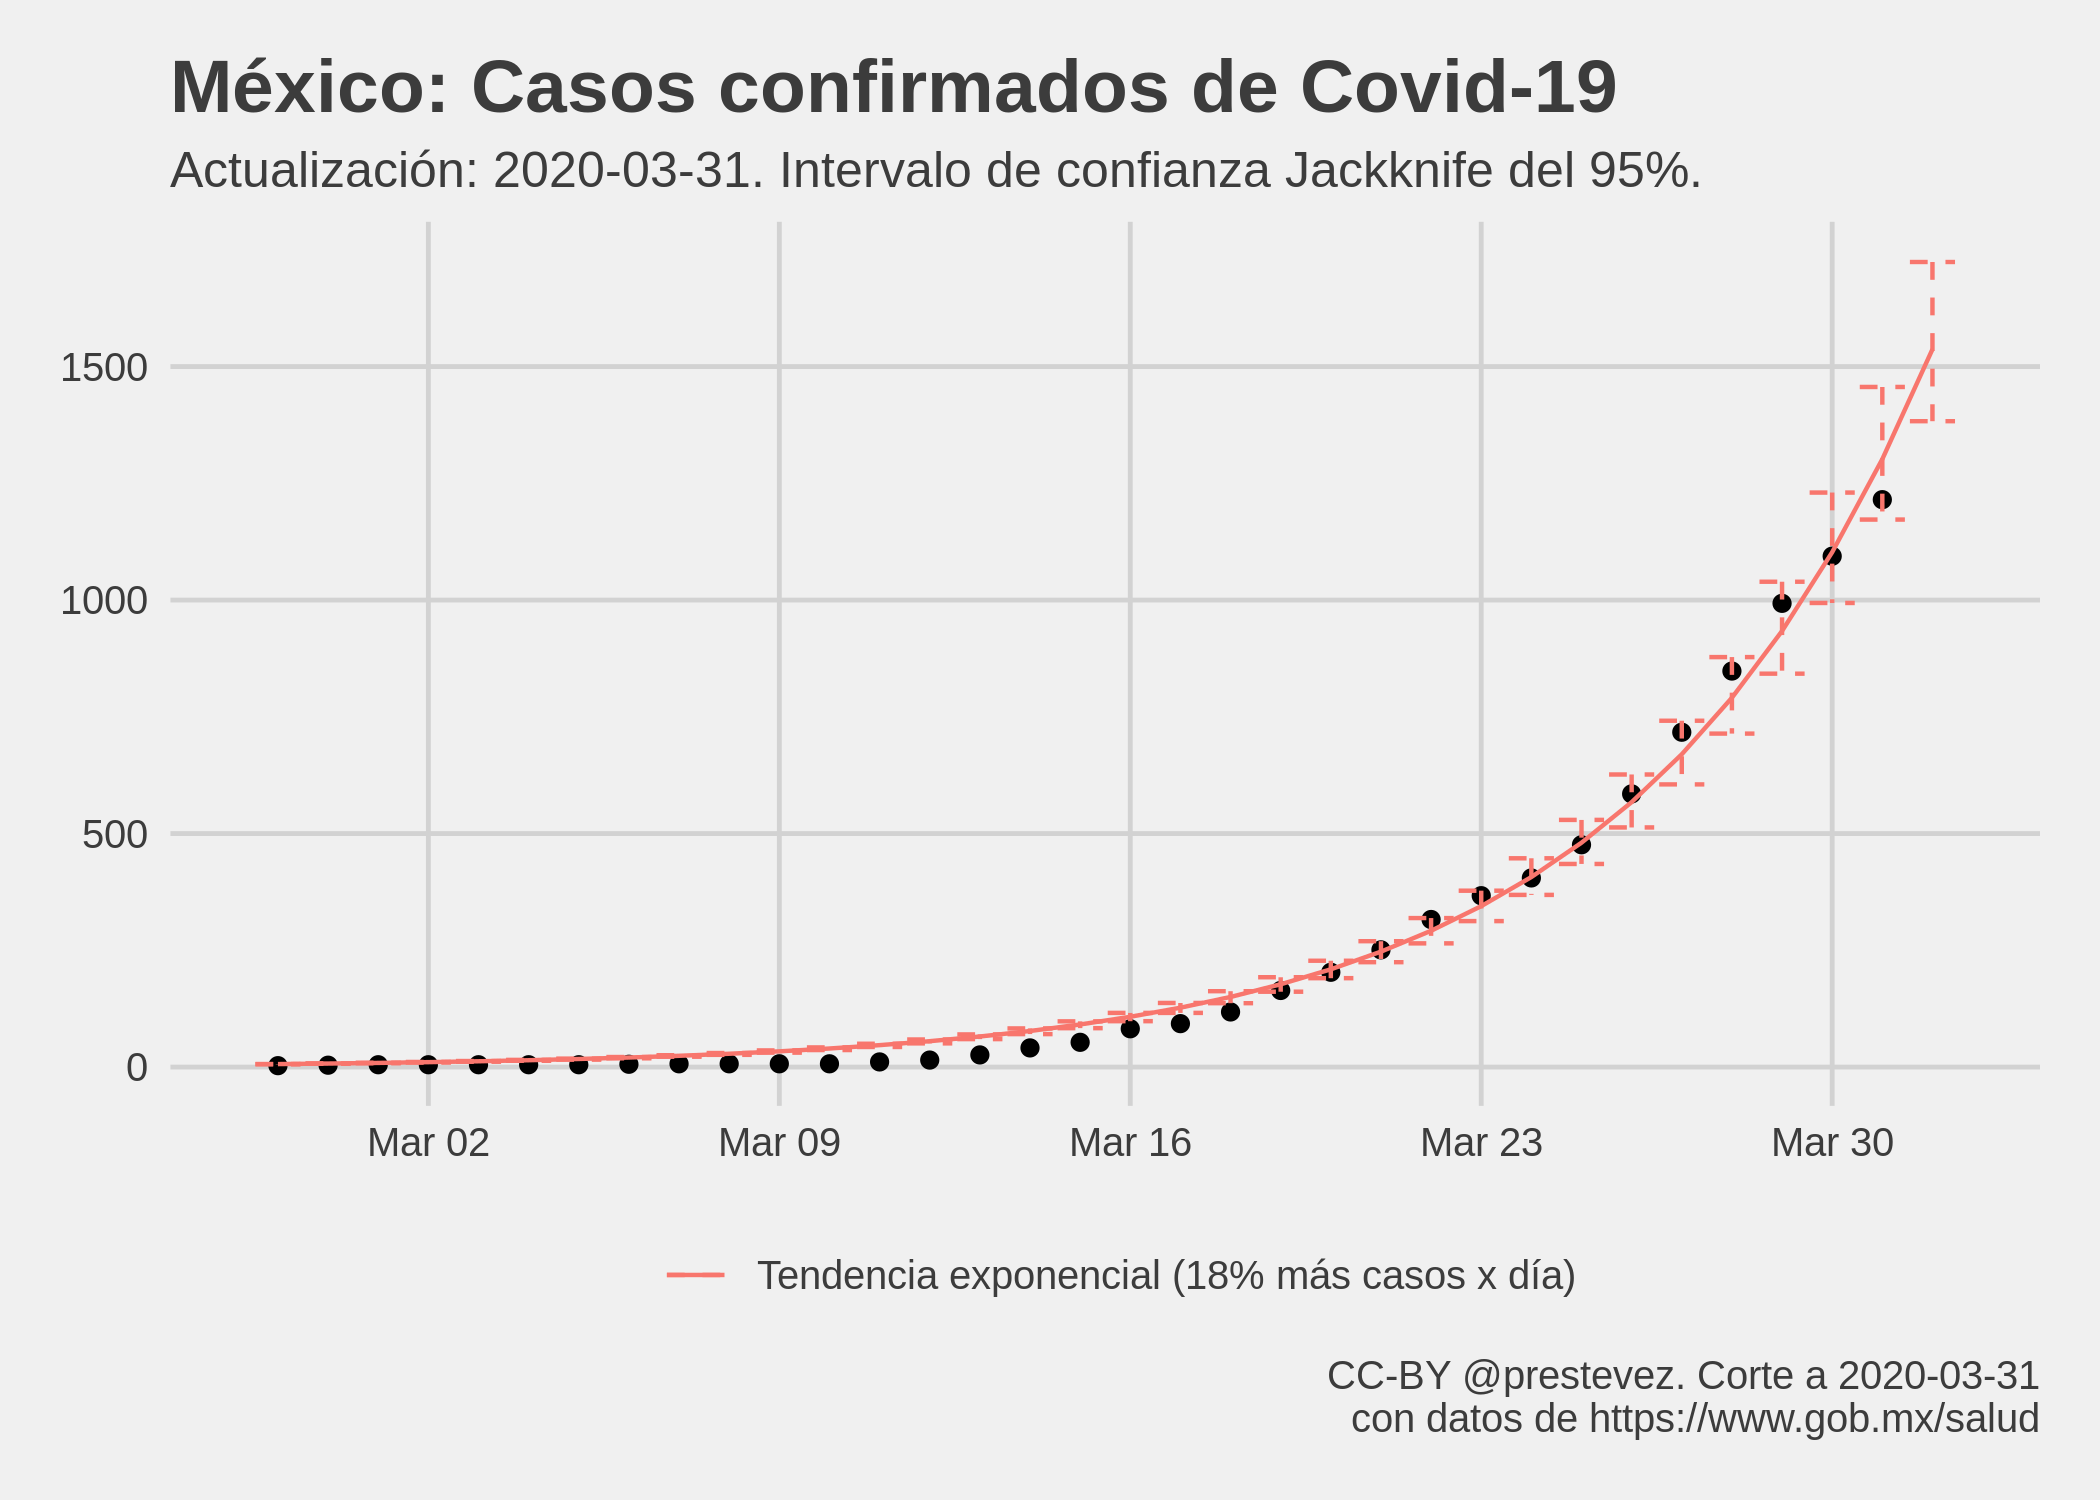
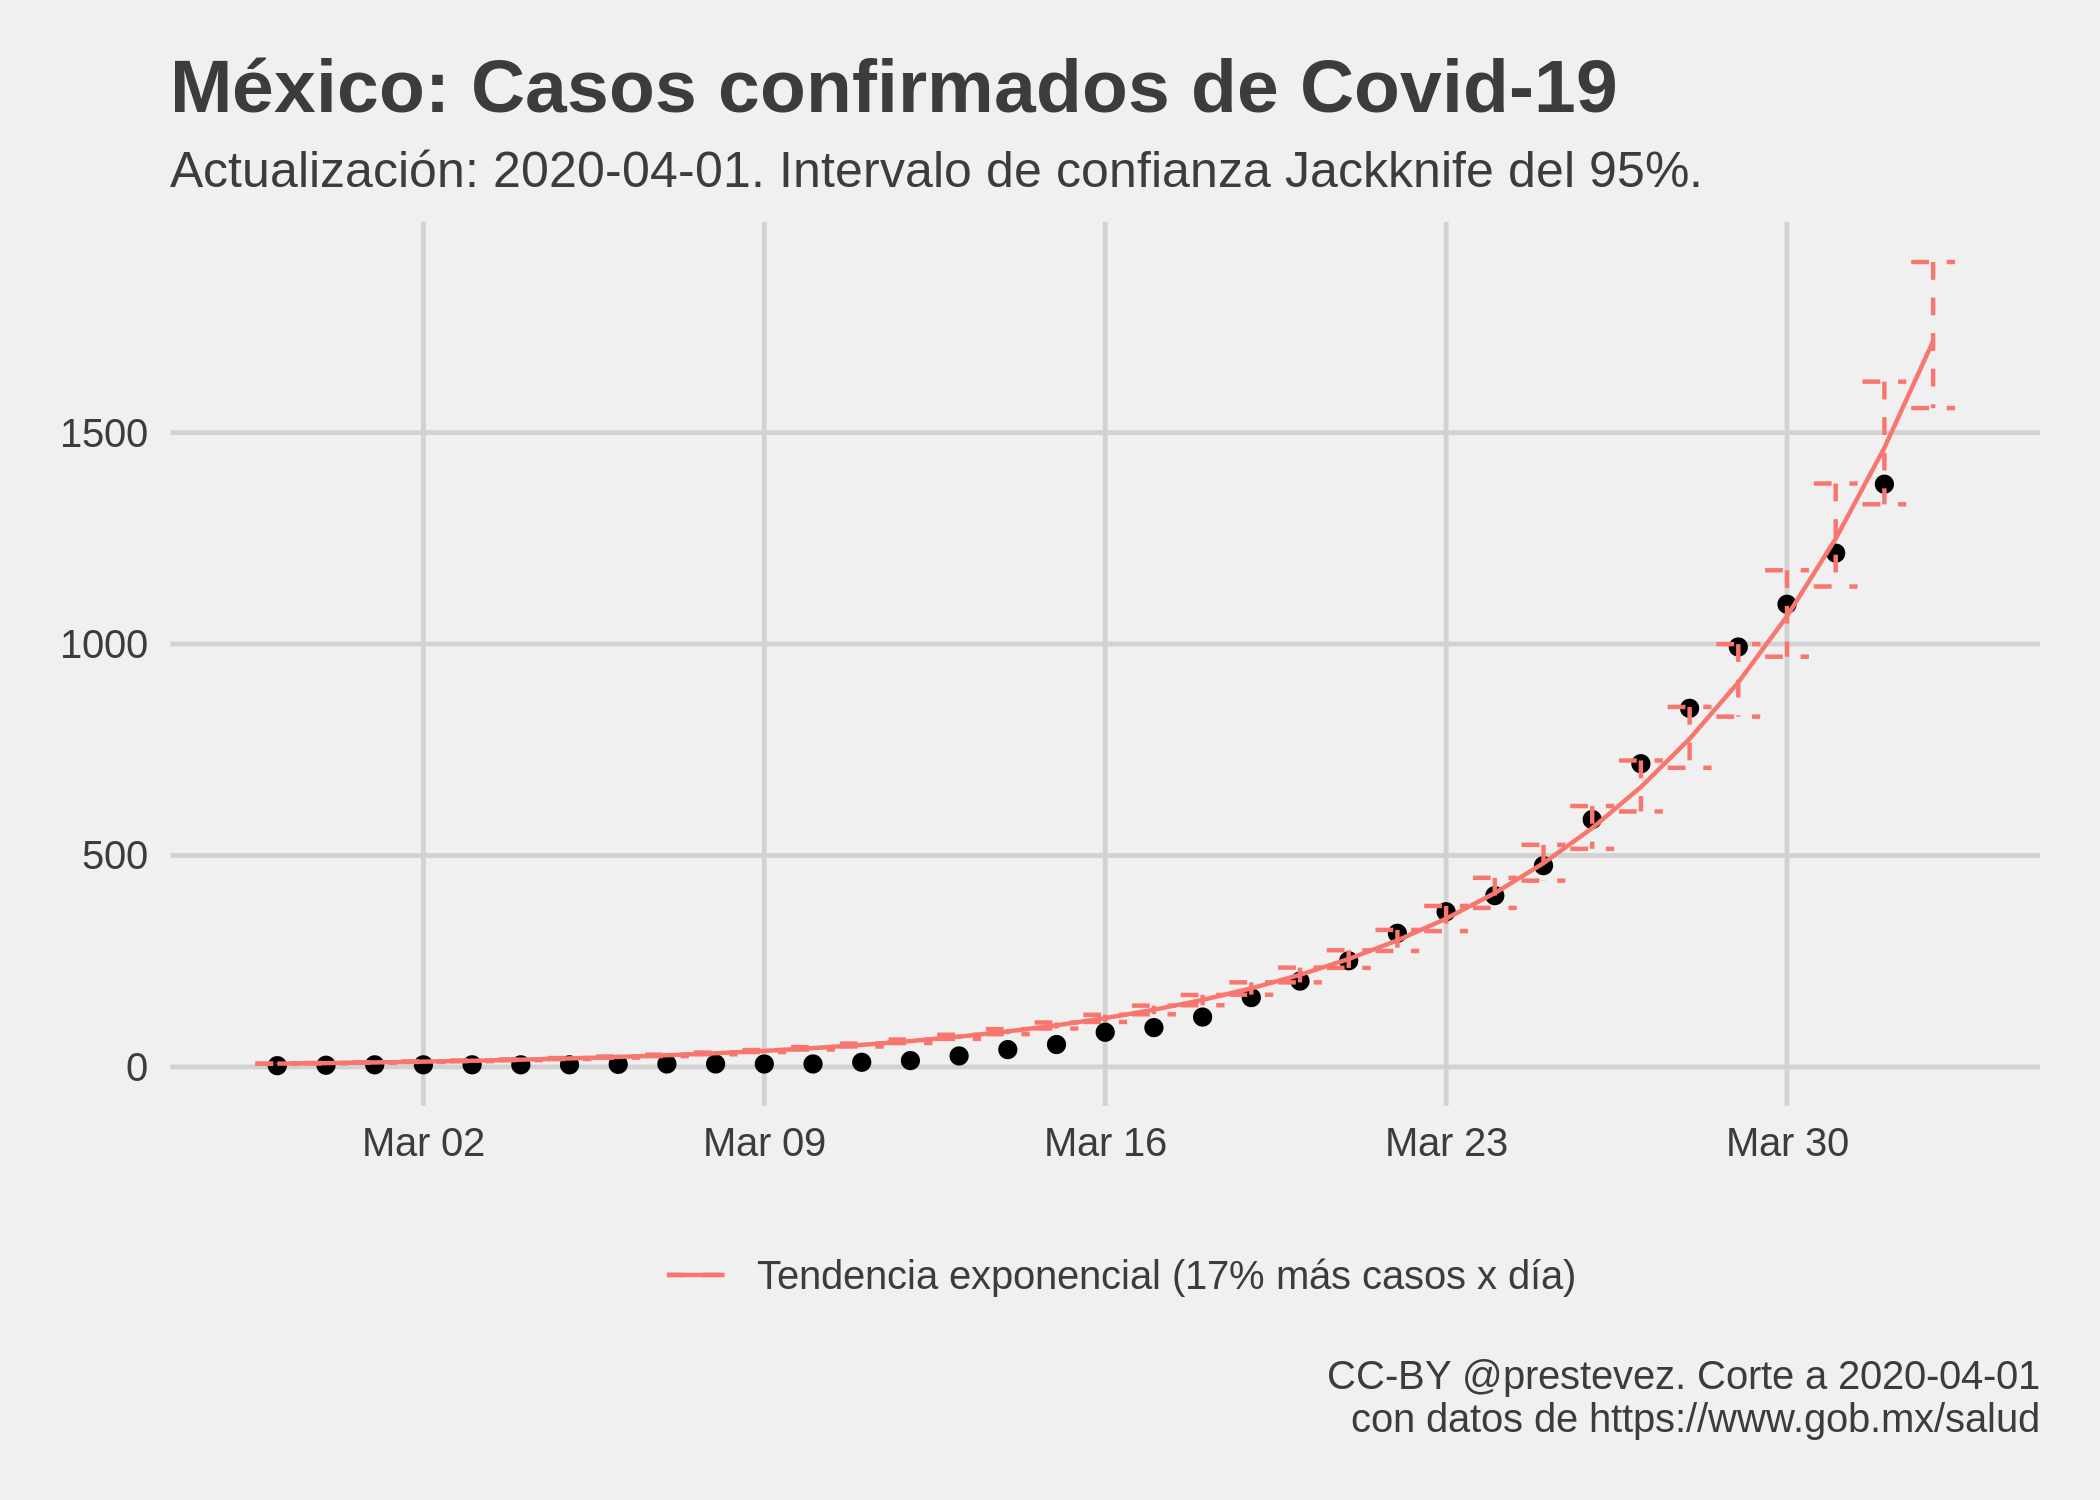
update 2020-04-01

diff --git a/README.md b/README.md
@@ -1,7 +1,7 @@
 Evolución de Covid-19 en México
 ================
 [Patricio R Estevez-Soto](https://twitter.com/prestevez).
-Actualizado: 2020-04-01 09:48:10 GMT
+Actualizado: 2020-04-02 12:37:47 GMT
 
 # Crecimiento de casos confirmados de Covid-19 en México
 
@@ -38,20 +38,20 @@ Parámetros del modelo predictivo:
     ## 
     ## Deviance Residuals: 
     ##     Min       1Q   Median       3Q      Max  
-    ## -86.765  -32.188   -9.676   -3.395   59.228  
+    ## -86.159  -36.704  -14.998   -4.851   83.638  
     ## 
     ## Coefficients:
     ##             Estimate Std. Error t value Pr(>|t|)    
-    ## (Intercept) 1.689447   0.133170   12.69 8.23e-14 ***
-    ## t           0.166122   0.004351   38.18  < 2e-16 ***
+    ## (Intercept)  1.89105    0.13443   14.07 2.98e-15 ***
+    ## t            0.15876    0.00427   37.18  < 2e-16 ***
     ## ---
     ## Signif. codes:  0 '***' 0.001 '**' 0.01 '*' 0.05 '.' 0.1 ' ' 1
     ## 
-    ## (Dispersion parameter for gaussian family taken to be 1016.315)
+    ## (Dispersion parameter for gaussian family taken to be 1409.83)
     ## 
-    ##     Null deviance: 4018598  on 32  degrees of freedom
-    ## Residual deviance:   31505  on 31  degrees of freedom
-    ## AIC: 326.08
+    ##     Null deviance: 5260935  on 33  degrees of freedom
+    ## Residual deviance:   45114  on 32  degrees of freedom
+    ## AIC: 346.97
     ## 
     ## Number of Fisher Scoring iterations: 6
 
@@ -88,8 +88,8 @@ Parámetros Jackknife del modelo predictivo de casos:
     ## # A tibble: 2 x 4
     ##   var         Estimate ci_low ci_high
     ##   <chr>          <dbl>  <dbl>   <dbl>
-    ## 1 (Intercept)    1.69   1.61    1.72 
-    ## 2 t              0.166  0.165   0.169
+    ## 1 (Intercept)    1.89   1.82    1.92 
+    ## 2 t              0.159  0.158   0.161
 
 # Modelo de casos nuevos
 
@@ -122,39 +122,39 @@ Parámetros del modelo predictivo de casos nuevos:
     ## 
     ## Deviance Residuals: 
     ##     Min       1Q   Median       3Q      Max  
-    ## -4.4986  -2.1451  -0.5113   1.3226   3.6123  
+    ## -3.7934  -2.3230  -0.6901   1.2704   3.9823  
     ## 
     ## Coefficients:
-    ##              Estimate Std. Error z value Pr(>|z|)    
-    ## (Intercept) 0.0004218  0.1367402   0.003    0.998    
-    ## t           0.1569170  0.0048971  32.043   <2e-16 ***
+    ##             Estimate Std. Error z value Pr(>|z|)    
+    ## (Intercept) 0.114522   0.127916   0.895    0.371    
+    ## t           0.151739   0.004451  34.090   <2e-16 ***
     ## ---
     ## Signif. codes:  0 '***' 0.001 '**' 0.01 '*' 0.05 '.' 0.1 ' ' 1
     ## 
     ## (Dispersion parameter for poisson family taken to be 1)
     ## 
-    ##     Null deviance: 1829.11  on 32  degrees of freedom
-    ## Residual deviance:  180.46  on 31  degrees of freedom
-    ## AIC: 309.79
+    ##     Null deviance: 2049.45  on 33  degrees of freedom
+    ## Residual deviance:  188.07  on 32  degrees of freedom
+    ## AIC: 324.32
     ## 
     ## Number of Fisher Scoring iterations: 5
 
     ## # A tibble: 2 x 4
-    ##   var         Estimate ci_low ci_high
-    ##   <chr>          <dbl>  <dbl>   <dbl>
-    ## 1 (Intercept) -0.00247 -0.160  0.0681
-    ## 2 t            0.157    0.155  0.165
+    ##   var         Estimate    ci_low ci_high
+    ##   <chr>          <dbl>     <dbl>   <dbl>
+    ## 1 (Intercept)    0.112 0.0000256   0.178
+    ## 2 t              0.152 0.150       0.157
 
 # Casos esperados mañana
 
 Mañana se espera que el **total acumulado de casos confirmados** de
-Covid-19 alcance **1537**, con un intervalo de confianza Jackknife del
-95% entre **1383** y **1724**, si la tendencia observada hasta hoy se
+Covid-19 alcance **1716**, con un intervalo de confianza Jackknife del
+95% entre **1558** y **1903**, si la tendencia observada hasta hoy se
 mantiene igual.
 
-Según el modelo de casos nuevos, mañana se esperan **208 casos
+Según el modelo de casos nuevos, mañana se esperan **227 casos
 confirmados nuevos**, con un intervalo de confianza Jackknife del 95%
-entre **164** y **290**, si la tendencia observada hasta hoy se mantiene
+entre **188** y **291**, si la tendencia observada hasta hoy se mantiene
 igual.
 
 Sin embargo, estas cifra muy probablemente estén equivocadas, pues el
@@ -189,6 +189,7 @@ Para el modelo del acumulado de casos:
 | 2020-03-29 |                      993 |    1041.24 |  \-48.24 |
 | 2020-03-30 |                     1094 |    1222.78 | \-128.78 |
 | 2020-03-31 |                     1215 |    1380.92 | \-165.92 |
+| 2020-04-01 |                     1378 |    1537.02 | \-159.02 |
 
 Intervalos de confianza JK
 
@@ -202,6 +203,7 @@ Intervalos de confianza JK
 | 2020-03-29 |           993            |    936-1166    |       No       |
 | 2020-03-30 |           1094           |   1106-1363    |       Sí       |
 | 2020-03-31 |           1215           |   1230-1571    |       Sí       |
+| 2020-04-01 |           1378           |   1383-1724    |       Sí       |
 
 Para el modelo de casos nuevos:
 
@@ -217,6 +219,7 @@ Para el modelo de casos nuevos:
 | 2020-03-29 |                     145 |     176.99 | \-31.99 |
 | 2020-03-30 |                     101 |     200.17 | \-99.17 |
 | 2020-03-31 |                     121 |     200.59 | \-79.59 |
+| 2020-04-01 |                     163 |     207.60 | \-44.60 |
 
 Intervalos de confianza JK, casos nuevos.
 
@@ -230,6 +233,7 @@ Intervalos de confianza JK, casos nuevos.
 | 2020-03-29 |           145           |    141-225     |       No       |
 | 2020-03-30 |           101           |    162-252     |       Sí       |
 | 2020-03-31 |           121           |    157-265     |       Sí       |
+| 2020-04-01 |           163           |    164-290     |       Sí       |
 
 # Discusión
 
@@ -238,7 +242,7 @@ confirmados de Covid-19 es consistente con ejercicios [realizados en
 otros países](https://doi.org/10.1016/S0140-6736\(20\)30627-9).
 
 La tendencia exponencial del modelo sugiere que **el número de casos
-confirmados se duplica cada 4.17 días**. Este ritmo es más rápido que
+confirmados se duplica cada 4.37 días**. Este ritmo es más rápido que
 [el observado a nivel
 global](https://ourworldindata.org/coronavirus#growth-of-cases-how-long-did-it-take-for-the-number-of-confirmed-cases-to-double),
 pero es consistente con los ritmos de crecimiento observados durante las
